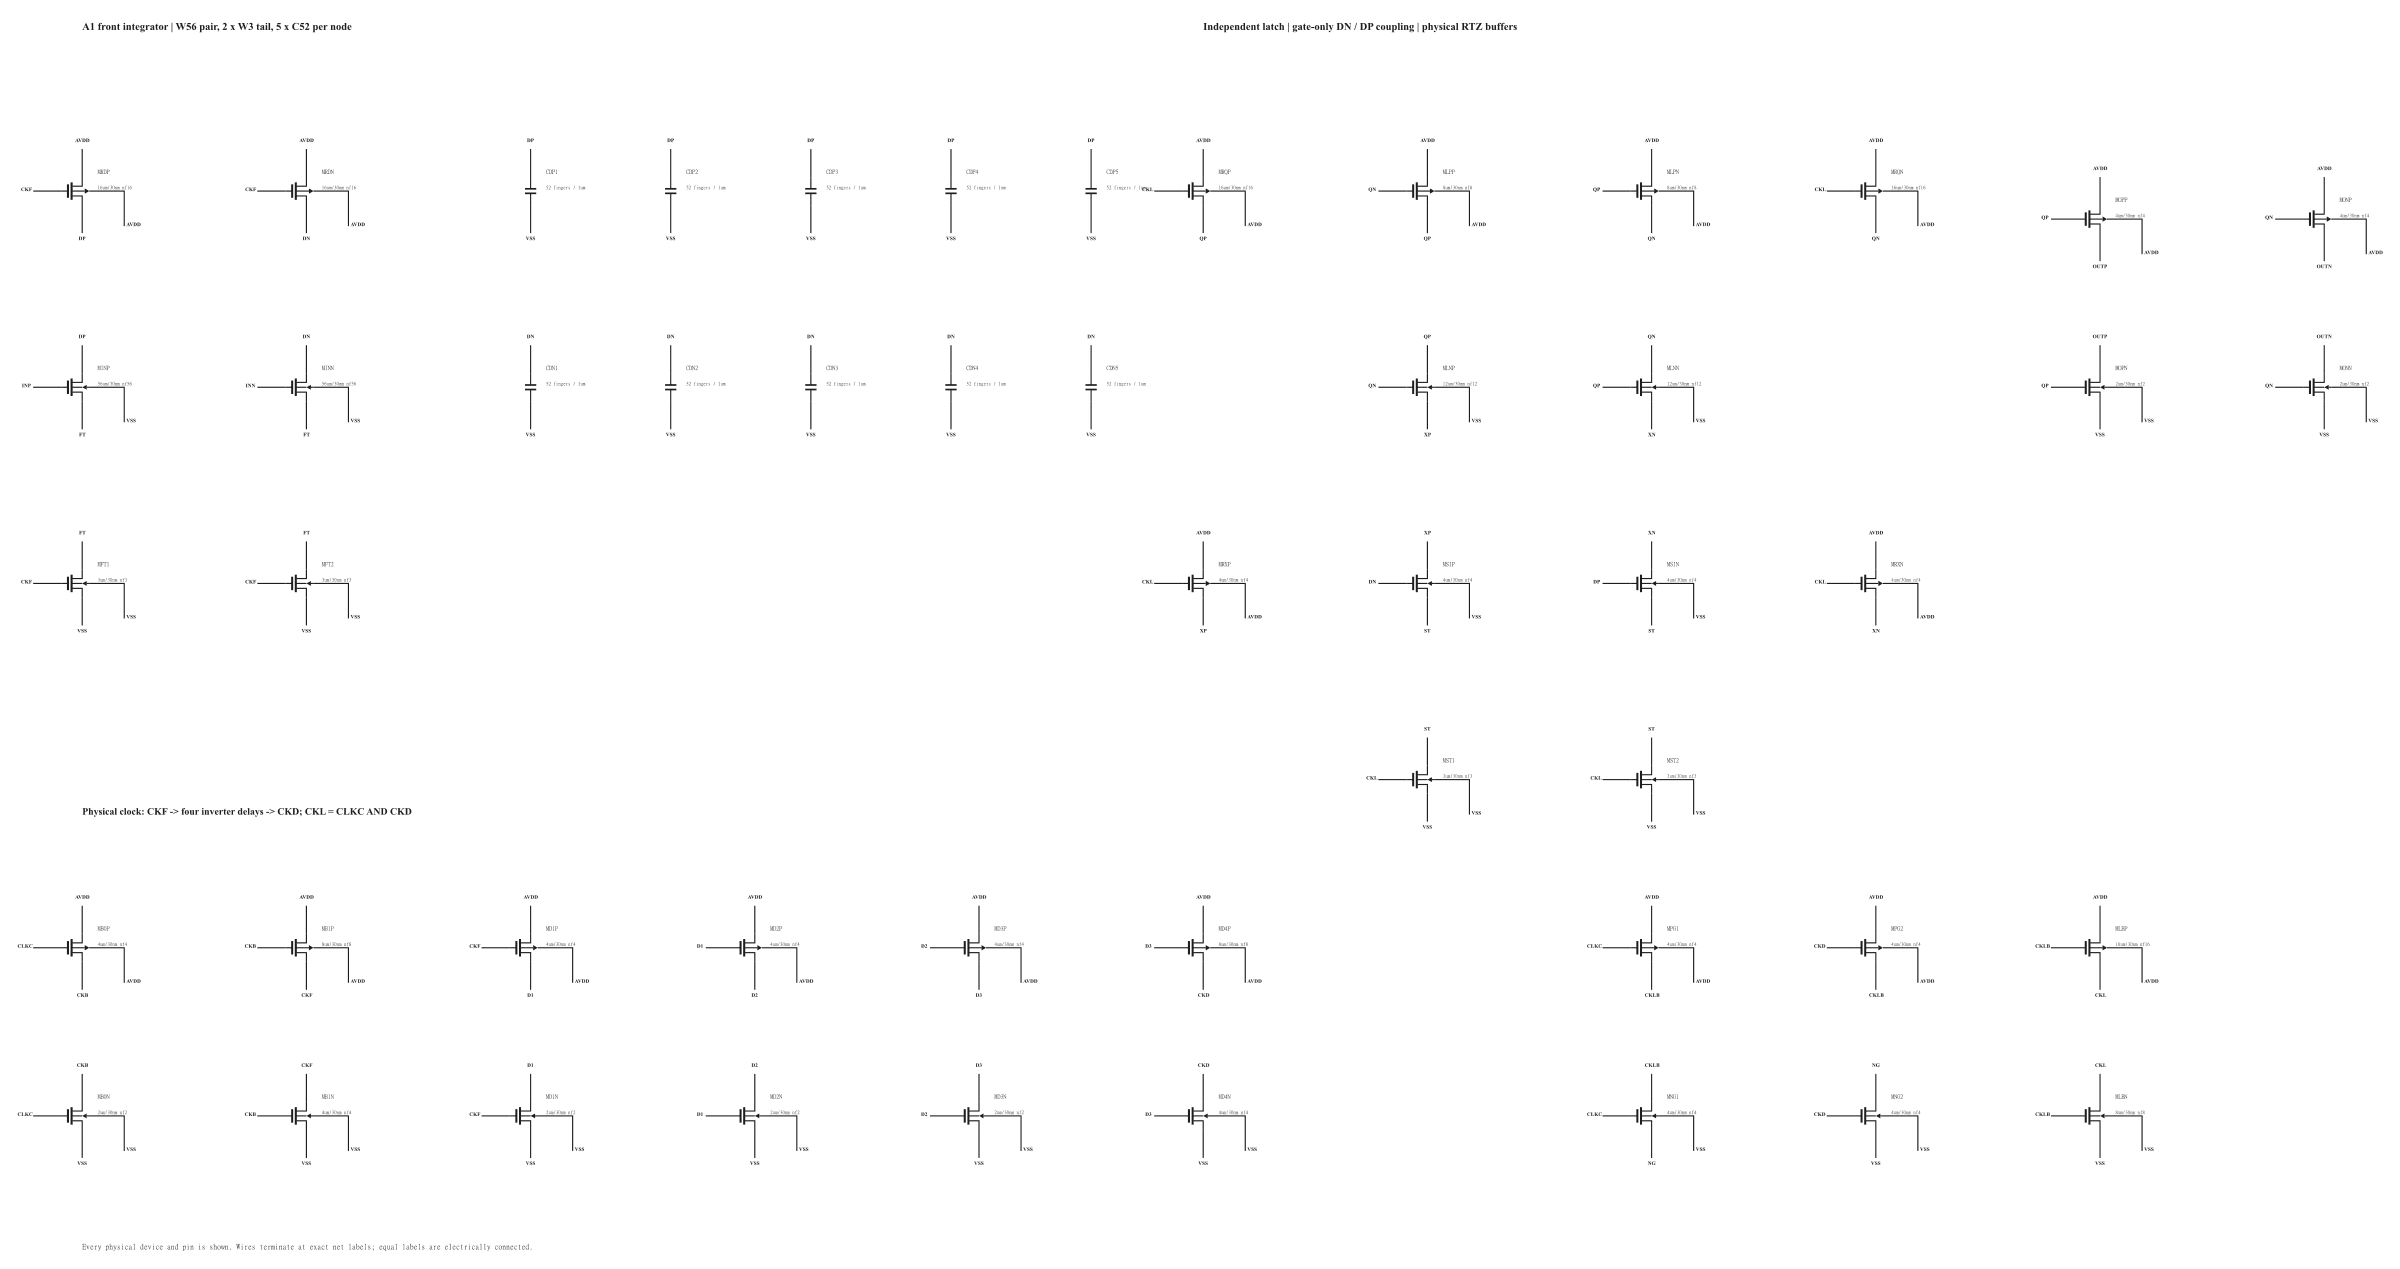
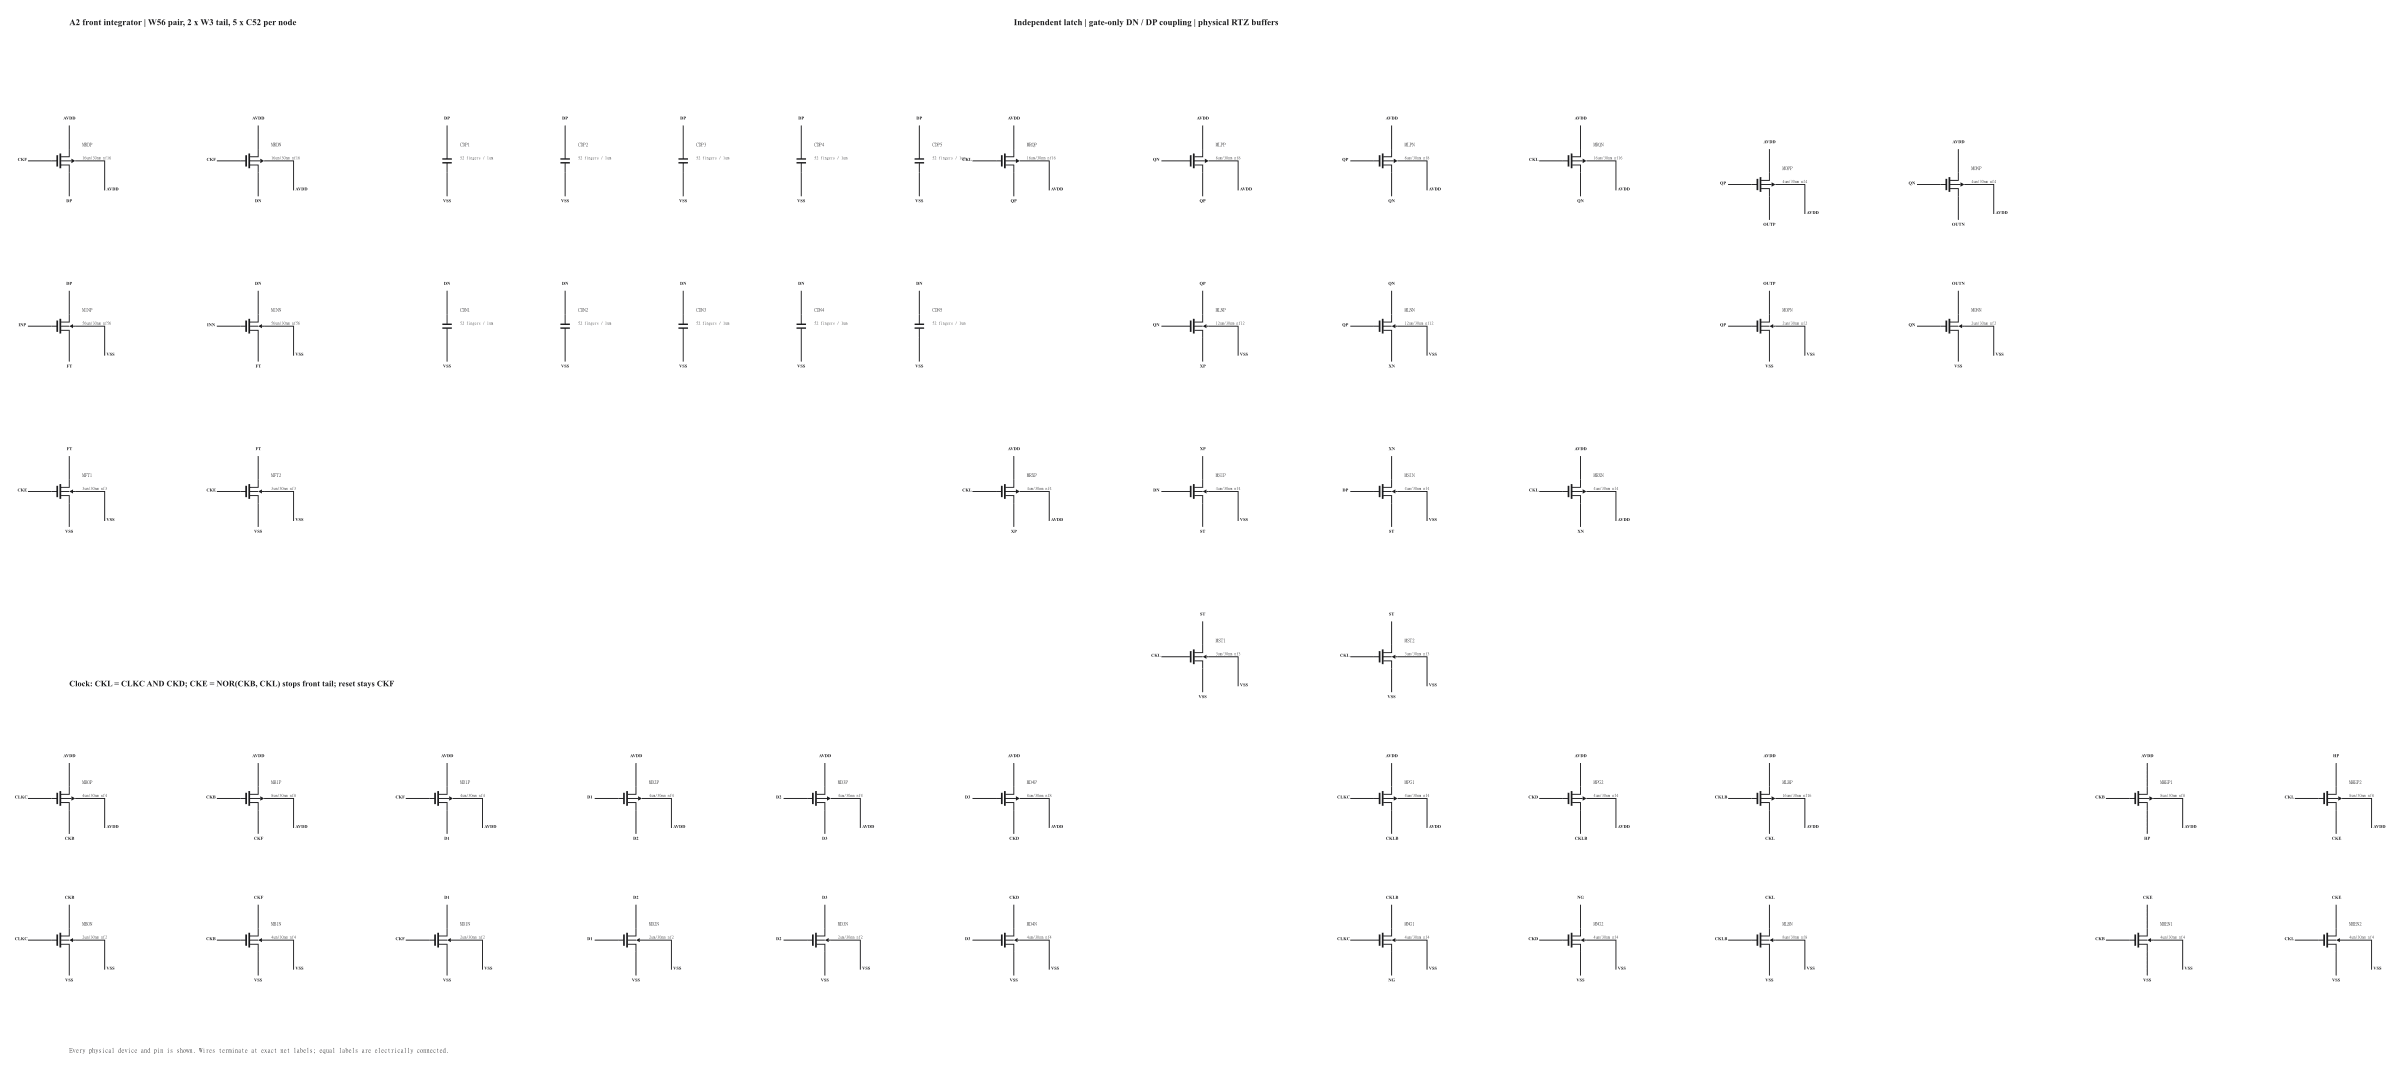
feat(adc_comp): add physical front-tail hold for A2 screen

diff --git a/design/xtor/adc_comp/many-question-splitstage/README.md b/design/xtor/adc_comp/many-question-splitstage/README.md
@@ -1,10 +1,12 @@
-# Split-stage comparator A1
+# Split-stage comparator A2
 
-**Initial screen failed; expansion stopped.** TT 30 mV delay is 59.9852 ps against 50 ps, and only 8/36 TT and 4/36 FS decisions complete. See [the retained A1 screen](A1-SCREEN.md) for the three recorded tests, physical timing, signal decay and limitations. Status remains `wip`.
+**A2 hold mechanism is pending its bounded two-corner screen.** A1 source and results remain frozen at [d948f9af](https://github.com/many-question/ADC-12b-100M/tree/d948f9af607cb669d18d37c2175624e726b4f7e3/design/xtor/adc_comp/many-question-splitstage). A2 adds only a four-MOS NOR2, CKE=NOT(CKB OR CKL), and connects the two front-tail gates to CKE. Front resets stay on CKF; all analog geometries, MOMs, four delay stages and the second latch are unchanged. The old TT loading record belongs to A1 and is stale for A2.
+
+**A1 screen failed; its expansion stopped.** TT 30 mV delay is 59.9852 ps against 50 ps, and only 8/36 TT and 4/36 FS decisions complete. See [the retained A1 screen](A1-SCREEN.md) for the three recorded tests, physical timing, signal decay and limitations. Status remains `wip`.
 
 This work-in-progress candidate separates a dynamic integrating input stage from a second StrongARM latch. The first-stage DP/DN nodes connect only to the second input pair's gates. Two physical tail switches, physical precharge devices and transistor clock generation are present in each appropriate stage. Physical output inverters preserve the return-to-zero interface.
 
-The first circuit contains 40 MOS devices and 10 MOM capacitors. All MOS geometries and MOM instance parameters were generated with successful device callbacks. The external input pair is W56/L0.03 with 56 fingers; front and latch tails each use two W3/L0.03 units. Front precharge uses P16. Each front drain has five 52-finger, 1 µm MOM units (76.3015 fF nominal total before device parasitics). The second pair is W4, with N12/P8 regenerative devices and N2/P4 output inverters. Dimensions are in µm; all MOS lengths are 0.03.
+The A2 circuit contains 44 MOS devices and 10 MOM capacitors. All MOS geometries and MOM instance parameters were generated with successful device callbacks. The external input pair is W56/L0.03 with 56 fingers; front and latch tails each use two W3/L0.03 units. Front precharge uses P16. Each front drain has five 52-finger, 1 µm MOM units (76.3015 fF nominal total before device parasitics). The second pair is W4, with N12/P8 regenerative devices and N2/P4 output inverters. Dimensions are in µm; all MOS lengths are 0.03.
 
 CLKC drives two physical inverters to CKF. CKF passes through four further inverters to CKD. A physical NAND2 and inverter produce CKL = CLKC AND CKD. The direct CLKC path lets CKL fall without waiting for the delay chain. No ideal source, delay, or assumed 20 ps phase spacing is part of the candidate. Actual rise/fall crossings and reset overlap must be measured with the full load.
 
